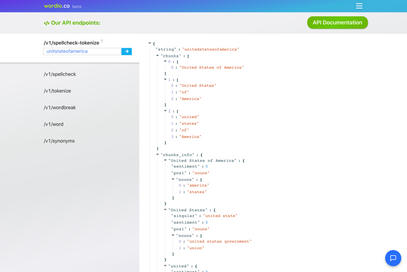
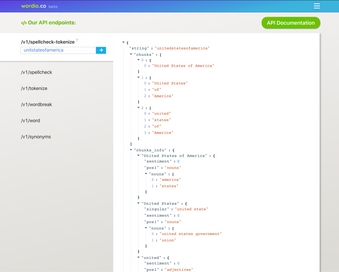
wordio screenshot

diff --git a/src/components/home/Wordio.js b/src/components/home/Wordio.js
@@ -89,12 +89,6 @@ class Wordio extends React.Component {
           <div className="horizontal_carousel lightbox">
             <div className="slides">
               <a
-                href="/screenshots/domains/wordio-co.png"
-                data-title="&nbsp;&nbsp; https://besta.domains - app to help you find available domain names &nbsp;&nbsp;"
-              >
-                <img src="/screenshots/domains/_thumb-wordio-co.png" />
-              </a>
-              <a
                 href="/screenshots/domains/domains.png"
                 data-title="&nbsp;&nbsp; https://besta.domains - app to help you find available domain names &nbsp;&nbsp;"
               >
@@ -146,6 +140,12 @@ class Wordio extends React.Component {
           </div>
           <div className="horizontal_carousel lightbox" id="code_samples">
             <div className="slides">
+              <a
+                href="/screenshots/domains/wordio-co.png"
+                data-title="&nbsp;&nbsp; https://wordio.co - API explorer. Test out the data without signing up for anything. &nbsp;&nbsp;"
+              >
+                <img src="/screenshots/domains/_thumb-wordio-co.png" />
+              </a>
               <a
                 href="/screenshots/domains-code/nlp-be-api.png"
                 data-title="&nbsp;&nbsp; Node.js Express API - each endpoint in its own folder - helper code in ES Modules &nbsp;&nbsp;"

diff --git a/src/styles/etc.scss b/src/styles/etc.scss
@@ -17,26 +17,24 @@
     background: hsl(219deg, 69%, 49%);
     height: 1.67rem;
     white-space: nowrap;
-    display: inline-block;npm 
+    display: inline-block;
     border-radius: 3px;
   }
 }
 .lum-next-button:after {
-  transform: translateY(-50%) rotate(45deg);
-  border-right: 5px solid hsl(0deg 0% 99%);
-  box-shadow: 2px -0.5px hsl(0deg 0% 45%);
-  right: 15%;
-  border-radius: 0 3px 0 0;
+  border-right: 3px solid hsl(0deg, 0%, 96% / 0.9) !important;
+  box-shadow: 2px -0.5px rgba(0, 0, 0, 0.3) !important;
+  right: 15% !important;
+  border-radius: 0 3px 0 0 !important;
 }
 .lum-previous-button:after {
-  transform: translateY(-50%) rotate(-45deg);
-  border-left: 4px solid hsl(0deg 0% 99%);
-  box-shadow: -2px 0.5px hsl(0deg 0% 45%);
-  left: 15%;
-  border-radius: 3px 0 0 0;
+  border-left: 3px solid hsl(0deg, 0%, 96% / 0.9) !important;
+  box-shadow: -2px -0.5px rgba(0, 0, 0, 0.3) !important;
+  left: 15% !important;
+  border-radius: 3px 0 0 0 !important;
 }
 .lum-gallery-button:after {
-  border-top: 5px solid hsl(0deg 0% 99%);
+  border-top: 3.5px solid hsl(0deg, 0%, 96% / 0.9) !important;
 }
 
 .imagesFloatRight {
